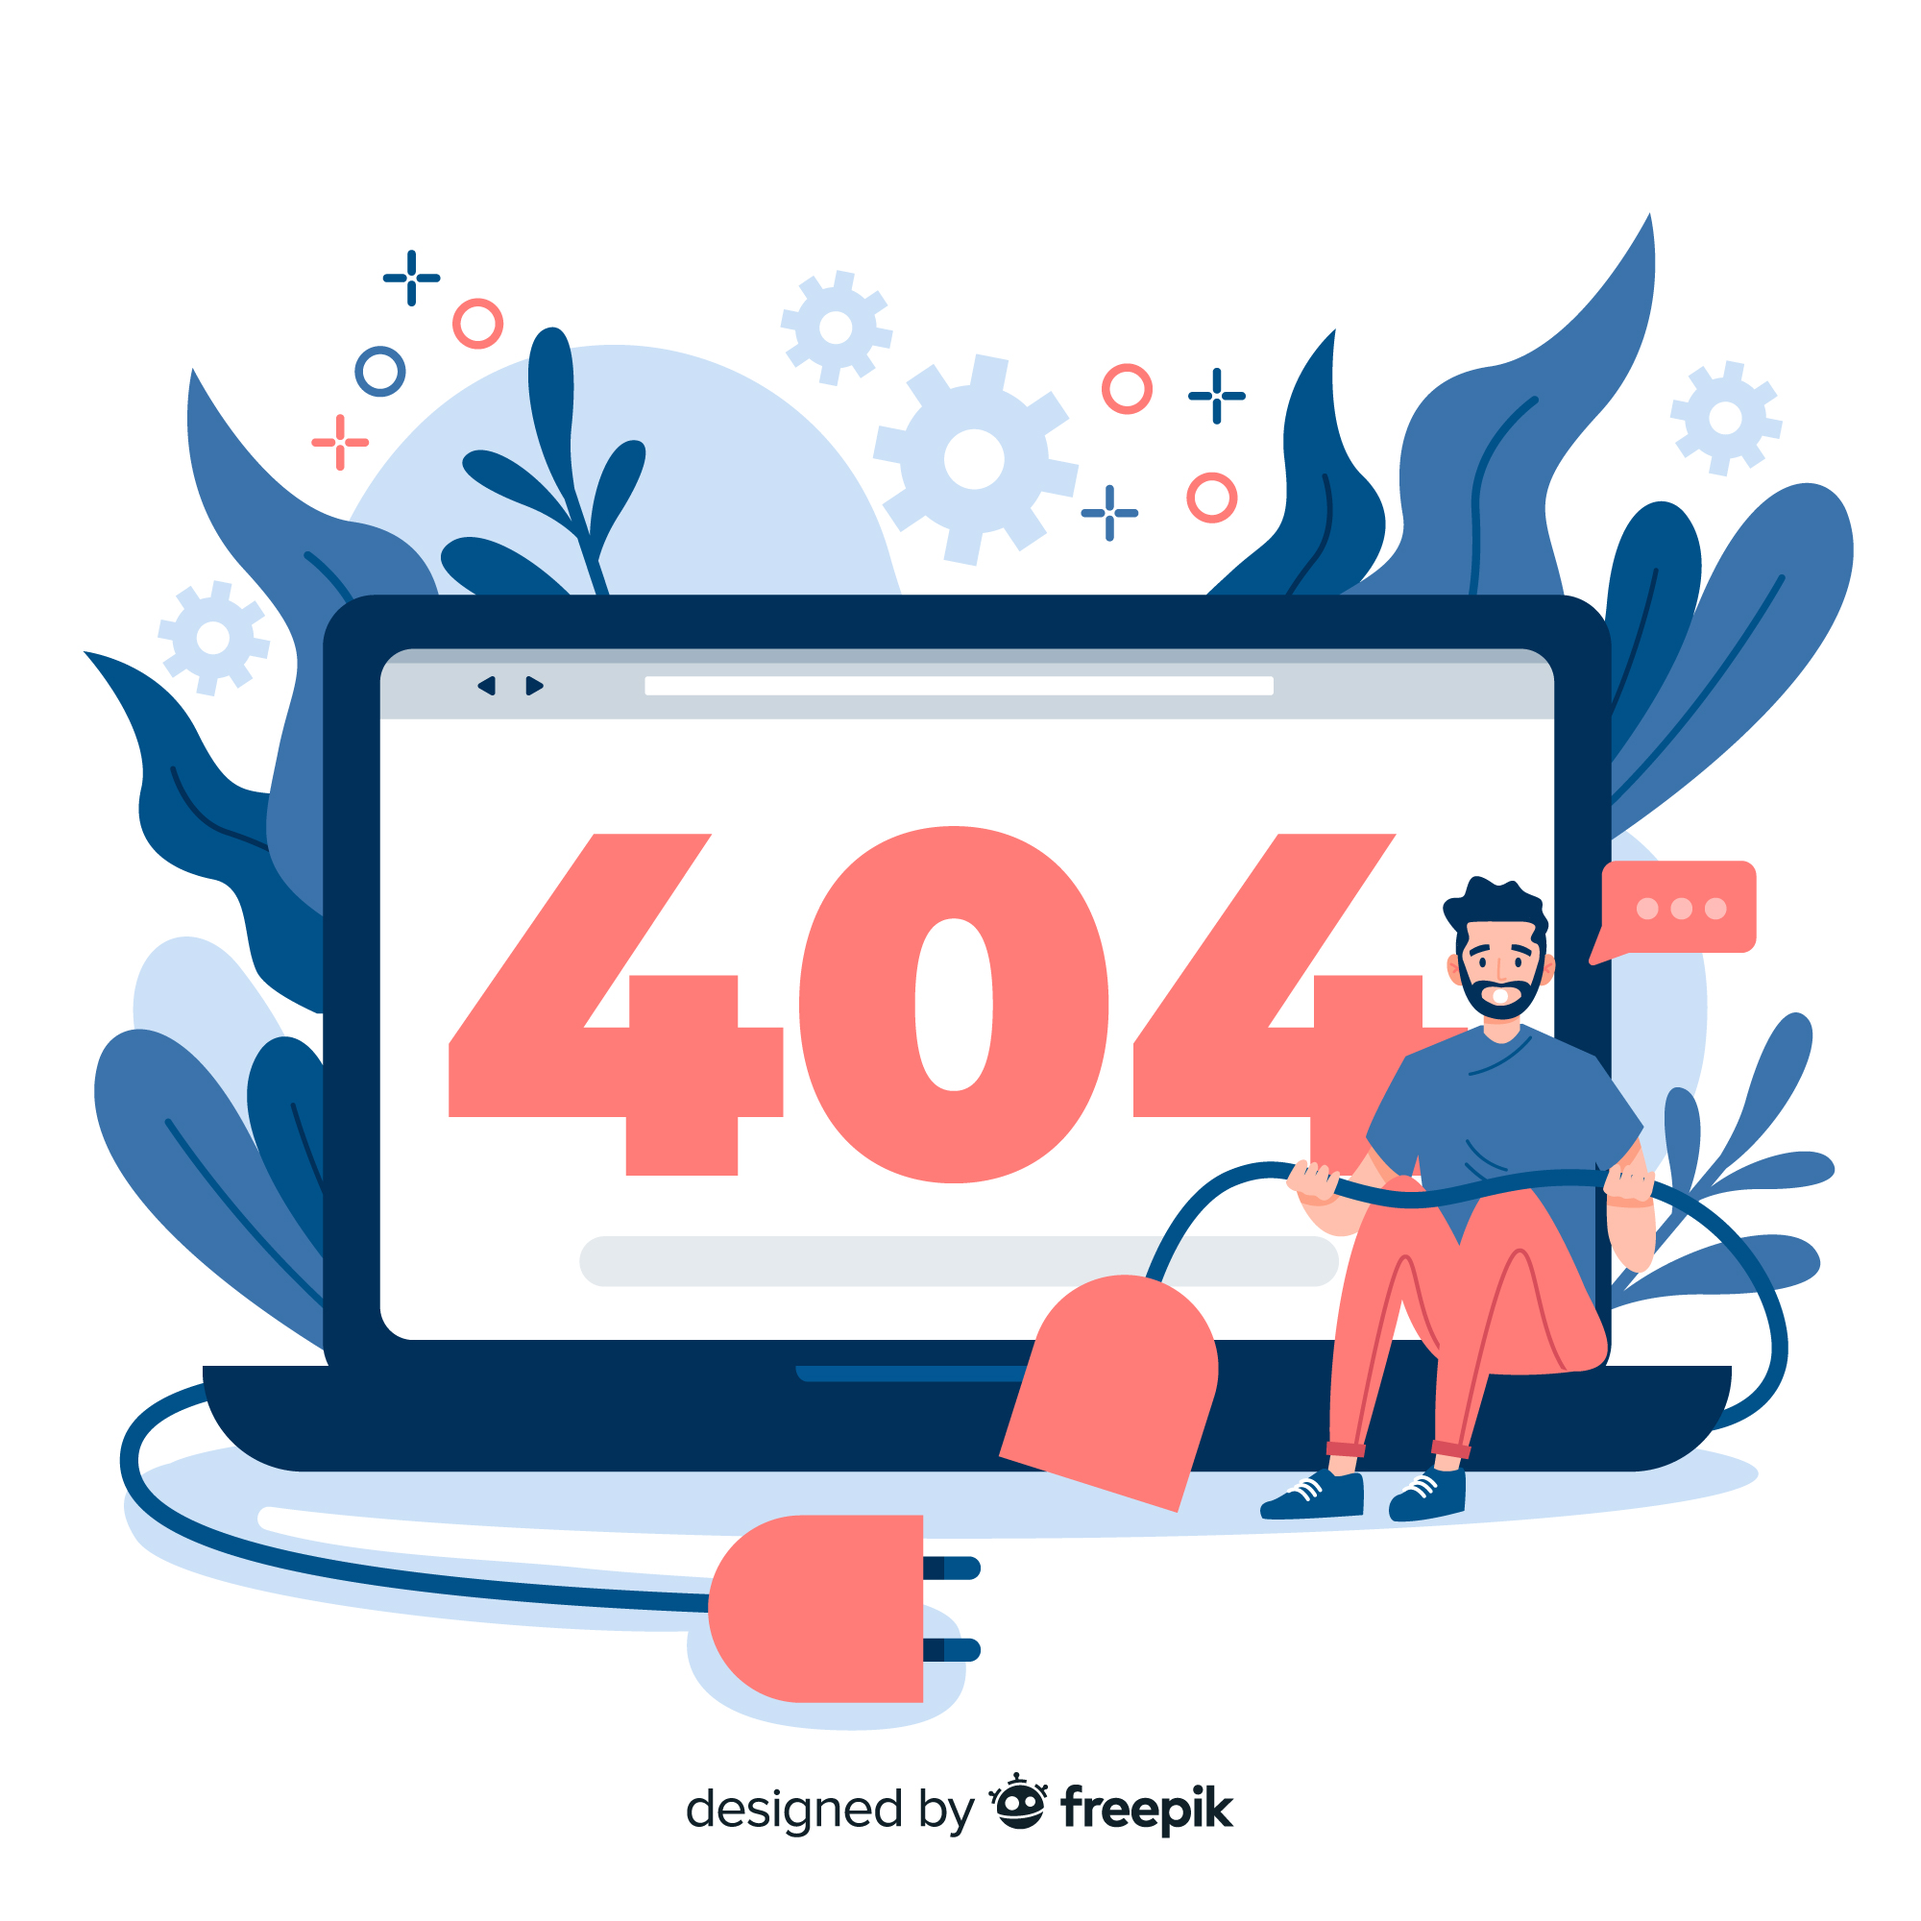
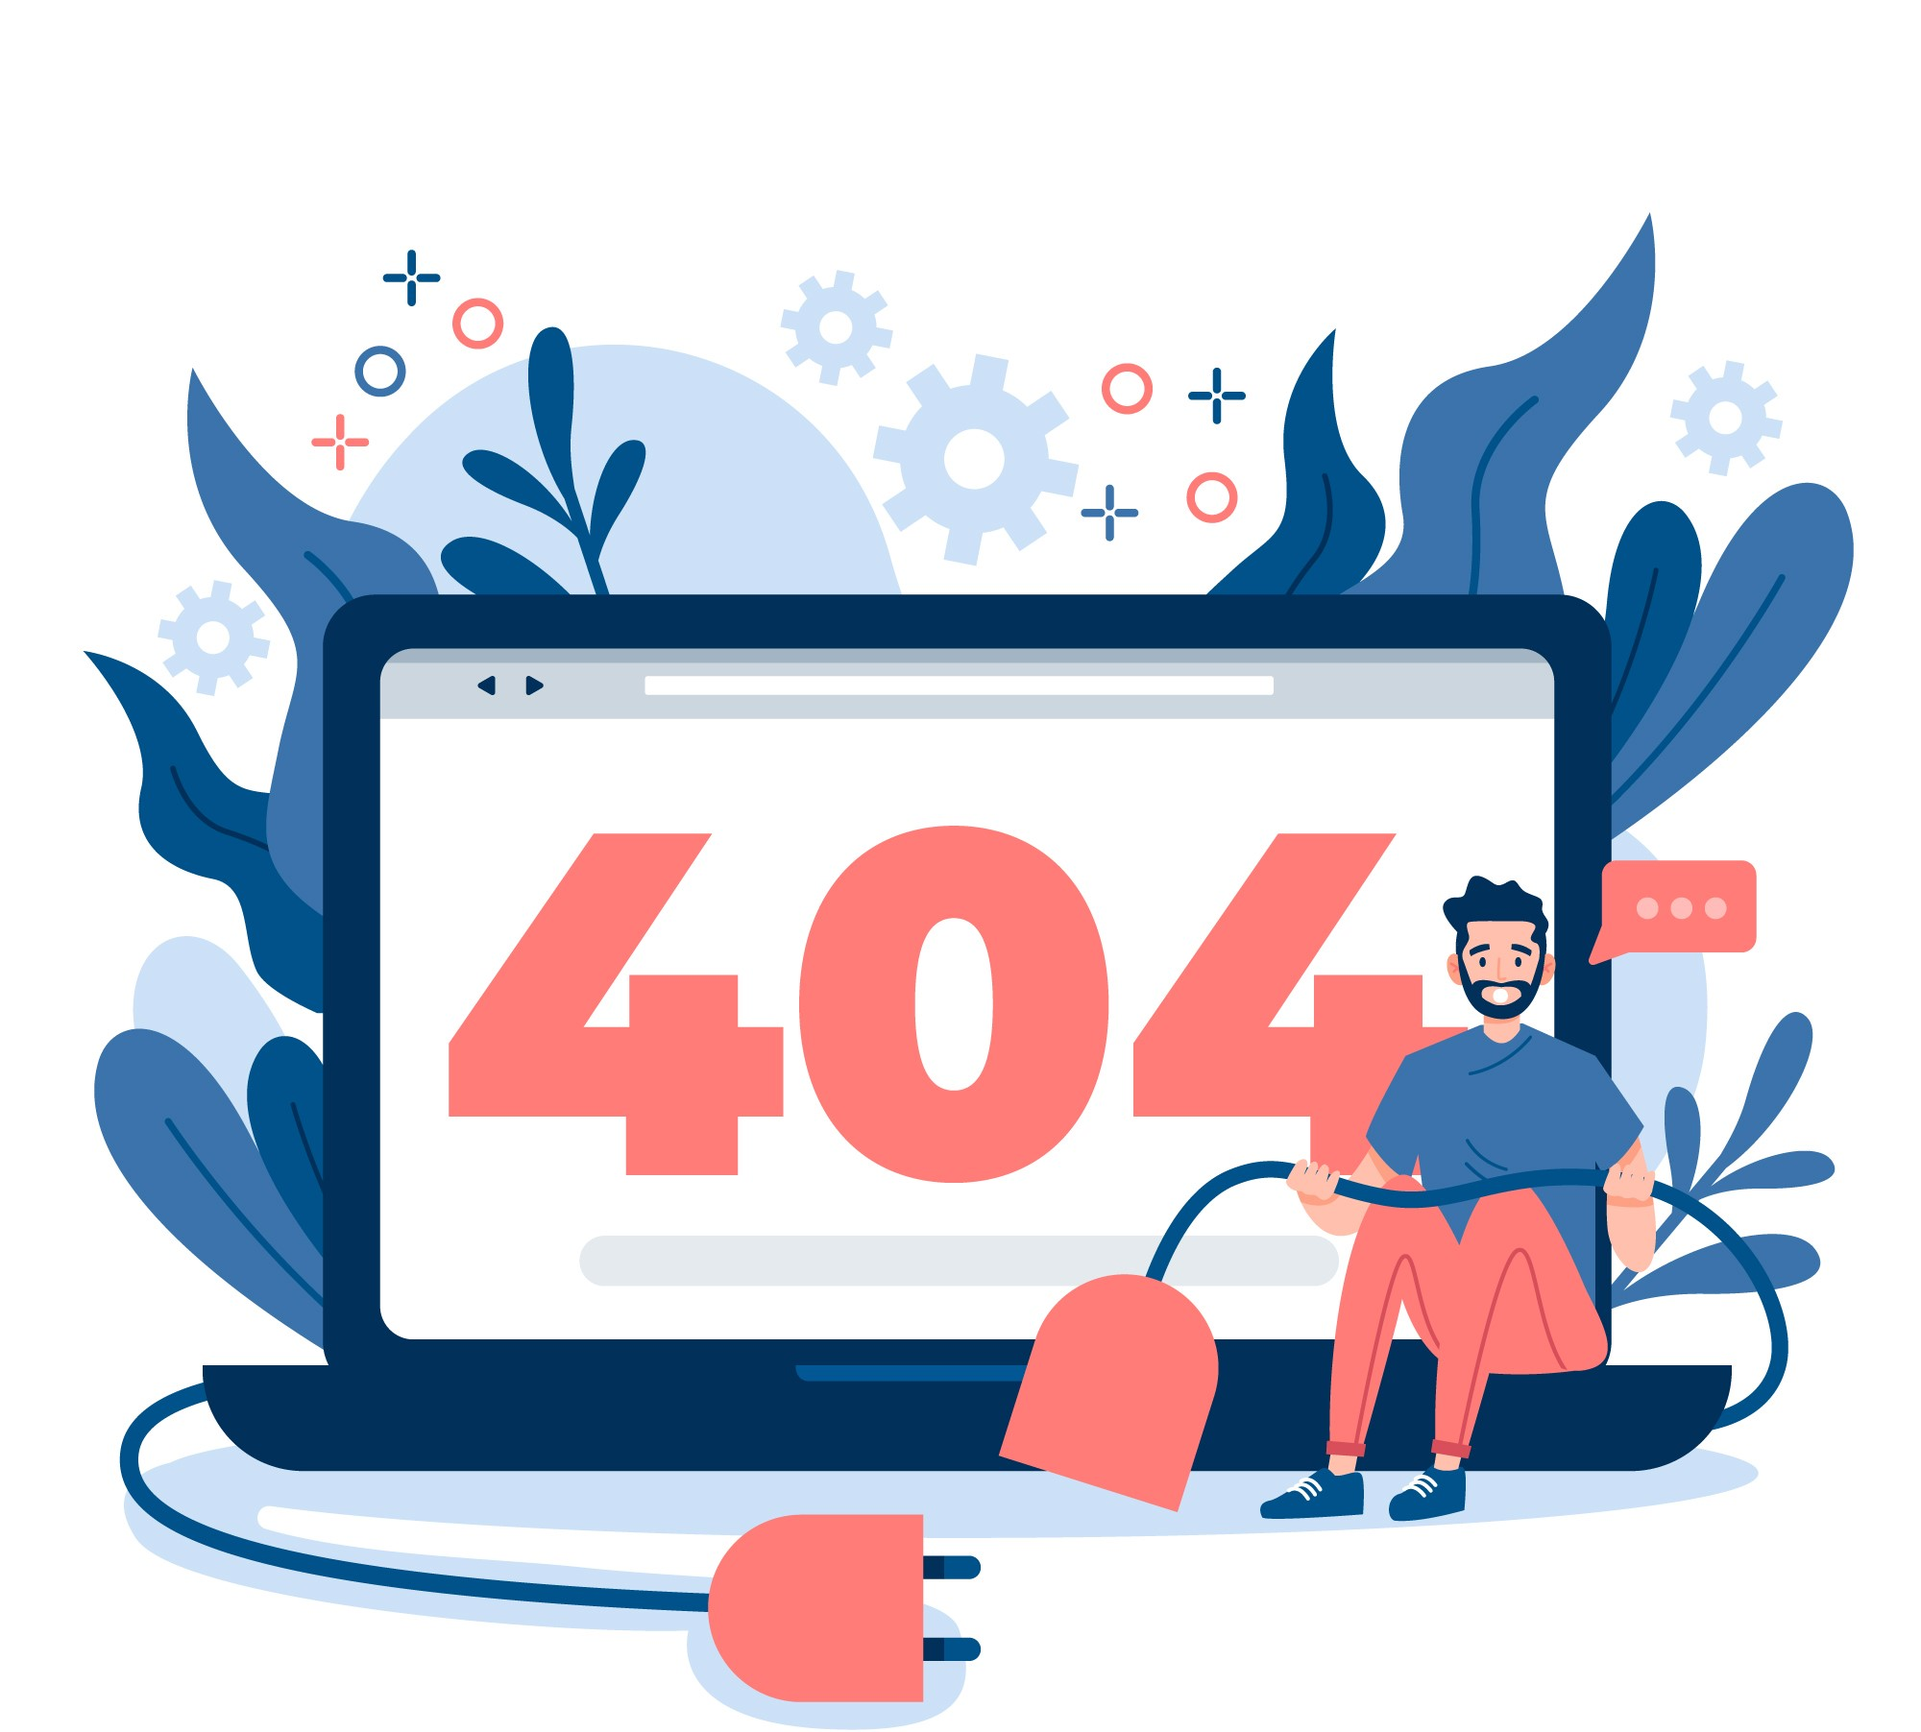
Update all UI

diff --git a/src/Pages/Home/Review/Review.js b/src/Pages/Home/Review/Review.js
@@ -9,29 +9,29 @@ const Review = () => {
             <h2 className=" my-5 Review-header p-3 m-3 mx-auto">Top Reviewers</h2>
 
             <div class="card-deck">
-  <div class="card">
-    <img class={Reviewer1} src="..." alt="Card image cap"/>
+  <div class="card w-75 mx-auto">
+    <img className="mx-auto Reviewer-img" src={Reviewer1} alt="Card image cap" width="125" height="125"/>
     <div class="card-body">
-      <h5 class="card-title">Very good tour and travel agency
-</h5>
-      <p class="card-text">I found the service and response of this travel agency to be excellent. Easily 5-stars. My emails were promptly responded to, and everyone showed up when they were supposed to. The $110 charged for my sedan ride to Bangkok for my family seemed like very good value.</p>
+      <h4 class="card-title text-danger">Very good tour and travel agency
+</h4>
+      <p class="card-text text-primary">I found the service and response of this travel agency to be excellent. Easily 5-stars. My emails were promptly responded to, and everyone showed up when they were supposed to. The $110 charged for my sedan ride to Bangkok for my family seemed like very good value.</p>
       <p class="card-text"><small class="text-muted">  20March,2021 </small></p>
     </div>
   </div>
-  <div class="card">
-    <img class={Reviewer2} src="..." alt="Card image cap"/>
+  <div class="card w-75 mx-auto mt-3">
+  <img className="mx-auto Reviewer-img" src={Reviewer2} alt="Card image cap" width="125" height="125"/>
     <div class="card-body">
-      <h5 class="card-title">Perfect 4-day tour with Derleng!
-</h5>
-      <p class="card-text">We were picked up at the airport on time by our driver and guide, Chamnan, for the next three days. We were brought to our hotel. We could choose to just relax or start the tour immediately. I decided to visit Ankgor Wat first. Our guide had great knowledge and his English was good. An Australian guy I met at Angkor Wat even asked to join me cause he didn’t understand his guide and Chamnan he understood very well! ;) So the next two days the Australian guy accompagnied us.
+      <h4 class="card-title text-danger">Perfect 4-day tour with Derleng!
+</h4>
+      <p class="card-text text-primary">We were picked up at the airport on time by our driver and guide, Chamnan, for the next three days. We were brought to our hotel. We could choose to just relax or start the tour immediately. I decided to visit Ankgor Wat first. Our guide had great knowledge and his English was good. An Australian guy I met at Angkor Wat even asked to join me cause he didn’t understand his guide and Chamnan he understood very well! ;) So the next two days the Australian guy accompagnied us.
 </p>
       <p class="card-text"><small class="text-muted">10 January,2021</small></p>
     </div>
   </div>
-  <div class="card">
-    <img class={Reviewer3} src="..." alt="Card image cap"/>
+  <div class="card w-75 mx-auto mb-4 mt-3">
+  <img className="mx-auto Reviewer-img" src={Reviewer3} alt="Card image cap" width="125" height="125"/>
     <div class="card-body">
-      <h5 class="card-title">Everything was perfect and perfectly-arranged</h5>
+      <h5 class="card-title text-primary">Everything was perfect and perfectly-arranged</h5>
       <p class="card-text">We just returned from our trip to Angkor temples. Without Derleng tour, our wonderful tour guide, and driver. This trip would be incomplete. Our tour guide who named John was really patient and understand that people from different cultures and background would extra time to absorb all information about history of Angkor. We did many things from the unbelievably structured Angkor ruins, thousand linga waterfalls on top of mountains, tonle sap lake, night market, old market and so many more. </p>
       <p class="card-text"><small class="text-muted">25 June,2021</small></p>
     </div>

diff --git a/src/Pages/Booking/Booking/Booking.js b/src/Pages/Booking/Booking/Booking.js
@@ -1,9 +1,12 @@
 import React, { useEffect, useState } from 'react';
 import { useParams } from 'react-router';
-
+import './Booking.css'
+import Logo from '../../../images/Logo.png'
+import useAuth from '../../../hooks/useAuth';
 const Booking = () => {
     const { serviceId } = useParams();
-    const [services, setServices] = useState();
+    const [services, setServices] = useState({});
+    const { user } = useAuth();
 
 
     useEffect(() => {
@@ -13,16 +16,75 @@ const Booking = () => {
             .then(data => setServices(data))
     }, []);
 
-
-      console.log(services);
-
     return (
-        <div>
+      <div className="  Booking-Container  " id="About">
+      <div>
+      <h2 className=" my-5 Booking-header p-3 m-3 mx-auto"> Confirm Your Booking </h2>
+      </div>
+<div className=" mb-4 ">
+  <div className="row d-flex">
+    <div className="col-md-6 ">
+    <div class="card m-5" >
+  <img class="card-img-top " src={services.Img} alt="Card image cap"/>
+  <div class="card-body">
+    <h2 class="card-title text-danger">{services.name}</h2>
+    <h6 class="card-text">{services.Description} </h6>
+    <h4 class="card-text text-primary">Budget: ${services.price}</h4>
+     </div>
+</div>
+    </div>
+    <div className="col-md-6  p-5 my-auto mx-auto">
+     
 
-            {/* <h2>Details of {services.name}</h2> */}
-            <h2>Your  Booked Tour Package {serviceId}</h2>
-        </div>
+    <div class="card m-2" >
+
+  <div class="card-body">
+    <h2 class="card-title text-danger">Hi {user.displayName} !!</h2>
+   <small>Please Confirm Your Booking</small>
+    <form class=" mx-auto Confiramtion">
+        
+        <fieldset>
+          <h4>Name :{user.displayName}</h4>
+          <h4>Email :{user.email}</h4>
+
+        </fieldset>
+        <fieldset >
+          <textarea placeholder="Address" tabindex="5" required ></textarea>
+        </fieldset>
+        <fieldset>
+          <input placeholder="Contact Number" type="number" minlength="11" maxlength="11" tabindex="1" required />
+        </fieldset>
+        
+        <fieldset>
+            <input placeholder="Cupon Code" type="text" tabindex="1"  autofocus />
+          </fieldset>
+       
+        <fieldset>
+          <button name="submit" type="submit" id="contact-submit" data-submit="...Sending" class="btn btn-primary">Confirm</button>
+        </fieldset>
+        
+        </form>
+        
+
+
+     </div>
+</div>
+    </div>
+  </div>
+</div>
+</div>
+
     );
 };
 
 export default Booking;
+
+
+
+
+
+
+
+
+
+

diff --git a/src/Pages/Shared/Header/Header.js b/src/Pages/Shared/Header/Header.js
@@ -19,7 +19,6 @@ const Header = () => {
                         <Nav.Link as={HashLink} to="/home#home"><button>Home</button></Nav.Link>
                         <Nav.Link as={HashLink} to="/About"><button>About</button></Nav.Link>
                         <Nav.Link as={HashLink} to="/home#services"><button>Package</button></Nav.Link>
-                        <Nav.Link as={HashLink} to="/Offer"><button>Offer</button></Nav.Link>
                         <Nav.Link as={HashLink} to="/addService"><button>Add Package</button></Nav.Link>
                         <Nav.Link as={HashLink} to="/manageServices"><button>Manage Package</button></Nav.Link>
                         <Nav.Link as={HashLink} to="/Contact"><button>Contact</button></Nav.Link>

diff --git a/src/Pages/Booking/Booking/Booking.css b/src/Pages/Booking/Booking/Booking.css
@@ -1,0 +1,37 @@
+.card-footer{
+    background-color: white;
+    border-color: white;
+}
+.card{
+    border-radius: 10px;
+}
+.Booking-header{
+    border: 2px solid green;
+    width:40%;
+    border-radius:40px;
+    color: white;
+    background-color:rgb(48, 48, 48);
+
+}
+
+form{
+    font-size:1.3em;
+}
+
+.Confiramtion{
+    margin: 60px;
+    padding:10px;
+    width: 100%;
+}
+.Confiramtion input {
+    width:300px;
+    margin: 10px 0;
+    border-radius:20px;
+    text-align: center;
+}
+.Confiramtion  textarea{
+    width:300px;
+    border-radius:20px;
+    text-align: center;
+
+}

diff --git a/src/Pages/NotFound/NotFound.js b/src/Pages/NotFound/NotFound.js
@@ -1,12 +1,12 @@
 import React from 'react';
-import { Link } from 'react-router-dom';
 import notfound from '../../images/404.jpg'
+import './NotFound.css'
 const NotFound = () => {
     return (
         <div>
-            <img style={{ width: '100%' }} src={notfound} alt="" />
-            <Link to="/"><button>Go Back</button>
-            </Link>
+            <img className="notFound" src={notfound} alt="" />
+           
+          
         </div>
     );
 };

diff --git a/src/App.js b/src/App.js
@@ -34,9 +34,7 @@ function App() {
             <Route path="/About">
               <About></About>
             </Route>
-            <Route path="/Offer">
-              <Offer></Offer>
-            </Route>
+           
             <PrivateRoute path="/booking/:serviceId">
               <Booking></Booking>
             </PrivateRoute>

diff --git a/src/Pages/Home/Review/Review.css b/src/Pages/Home/Review/Review.css
@@ -5,3 +5,7 @@
     color: white;
     background-color:rgb(48, 48, 48)
 }
+.Reviewer-img{
+    border-radius: 140px;
+    margin-top: 20px;
+}

diff --git a/src/Pages/NotFound/NotFound.css b/src/Pages/NotFound/NotFound.css
@@ -1,0 +1,4 @@
+.notFound{
+    width:100%;
+    height:650px;
+}
